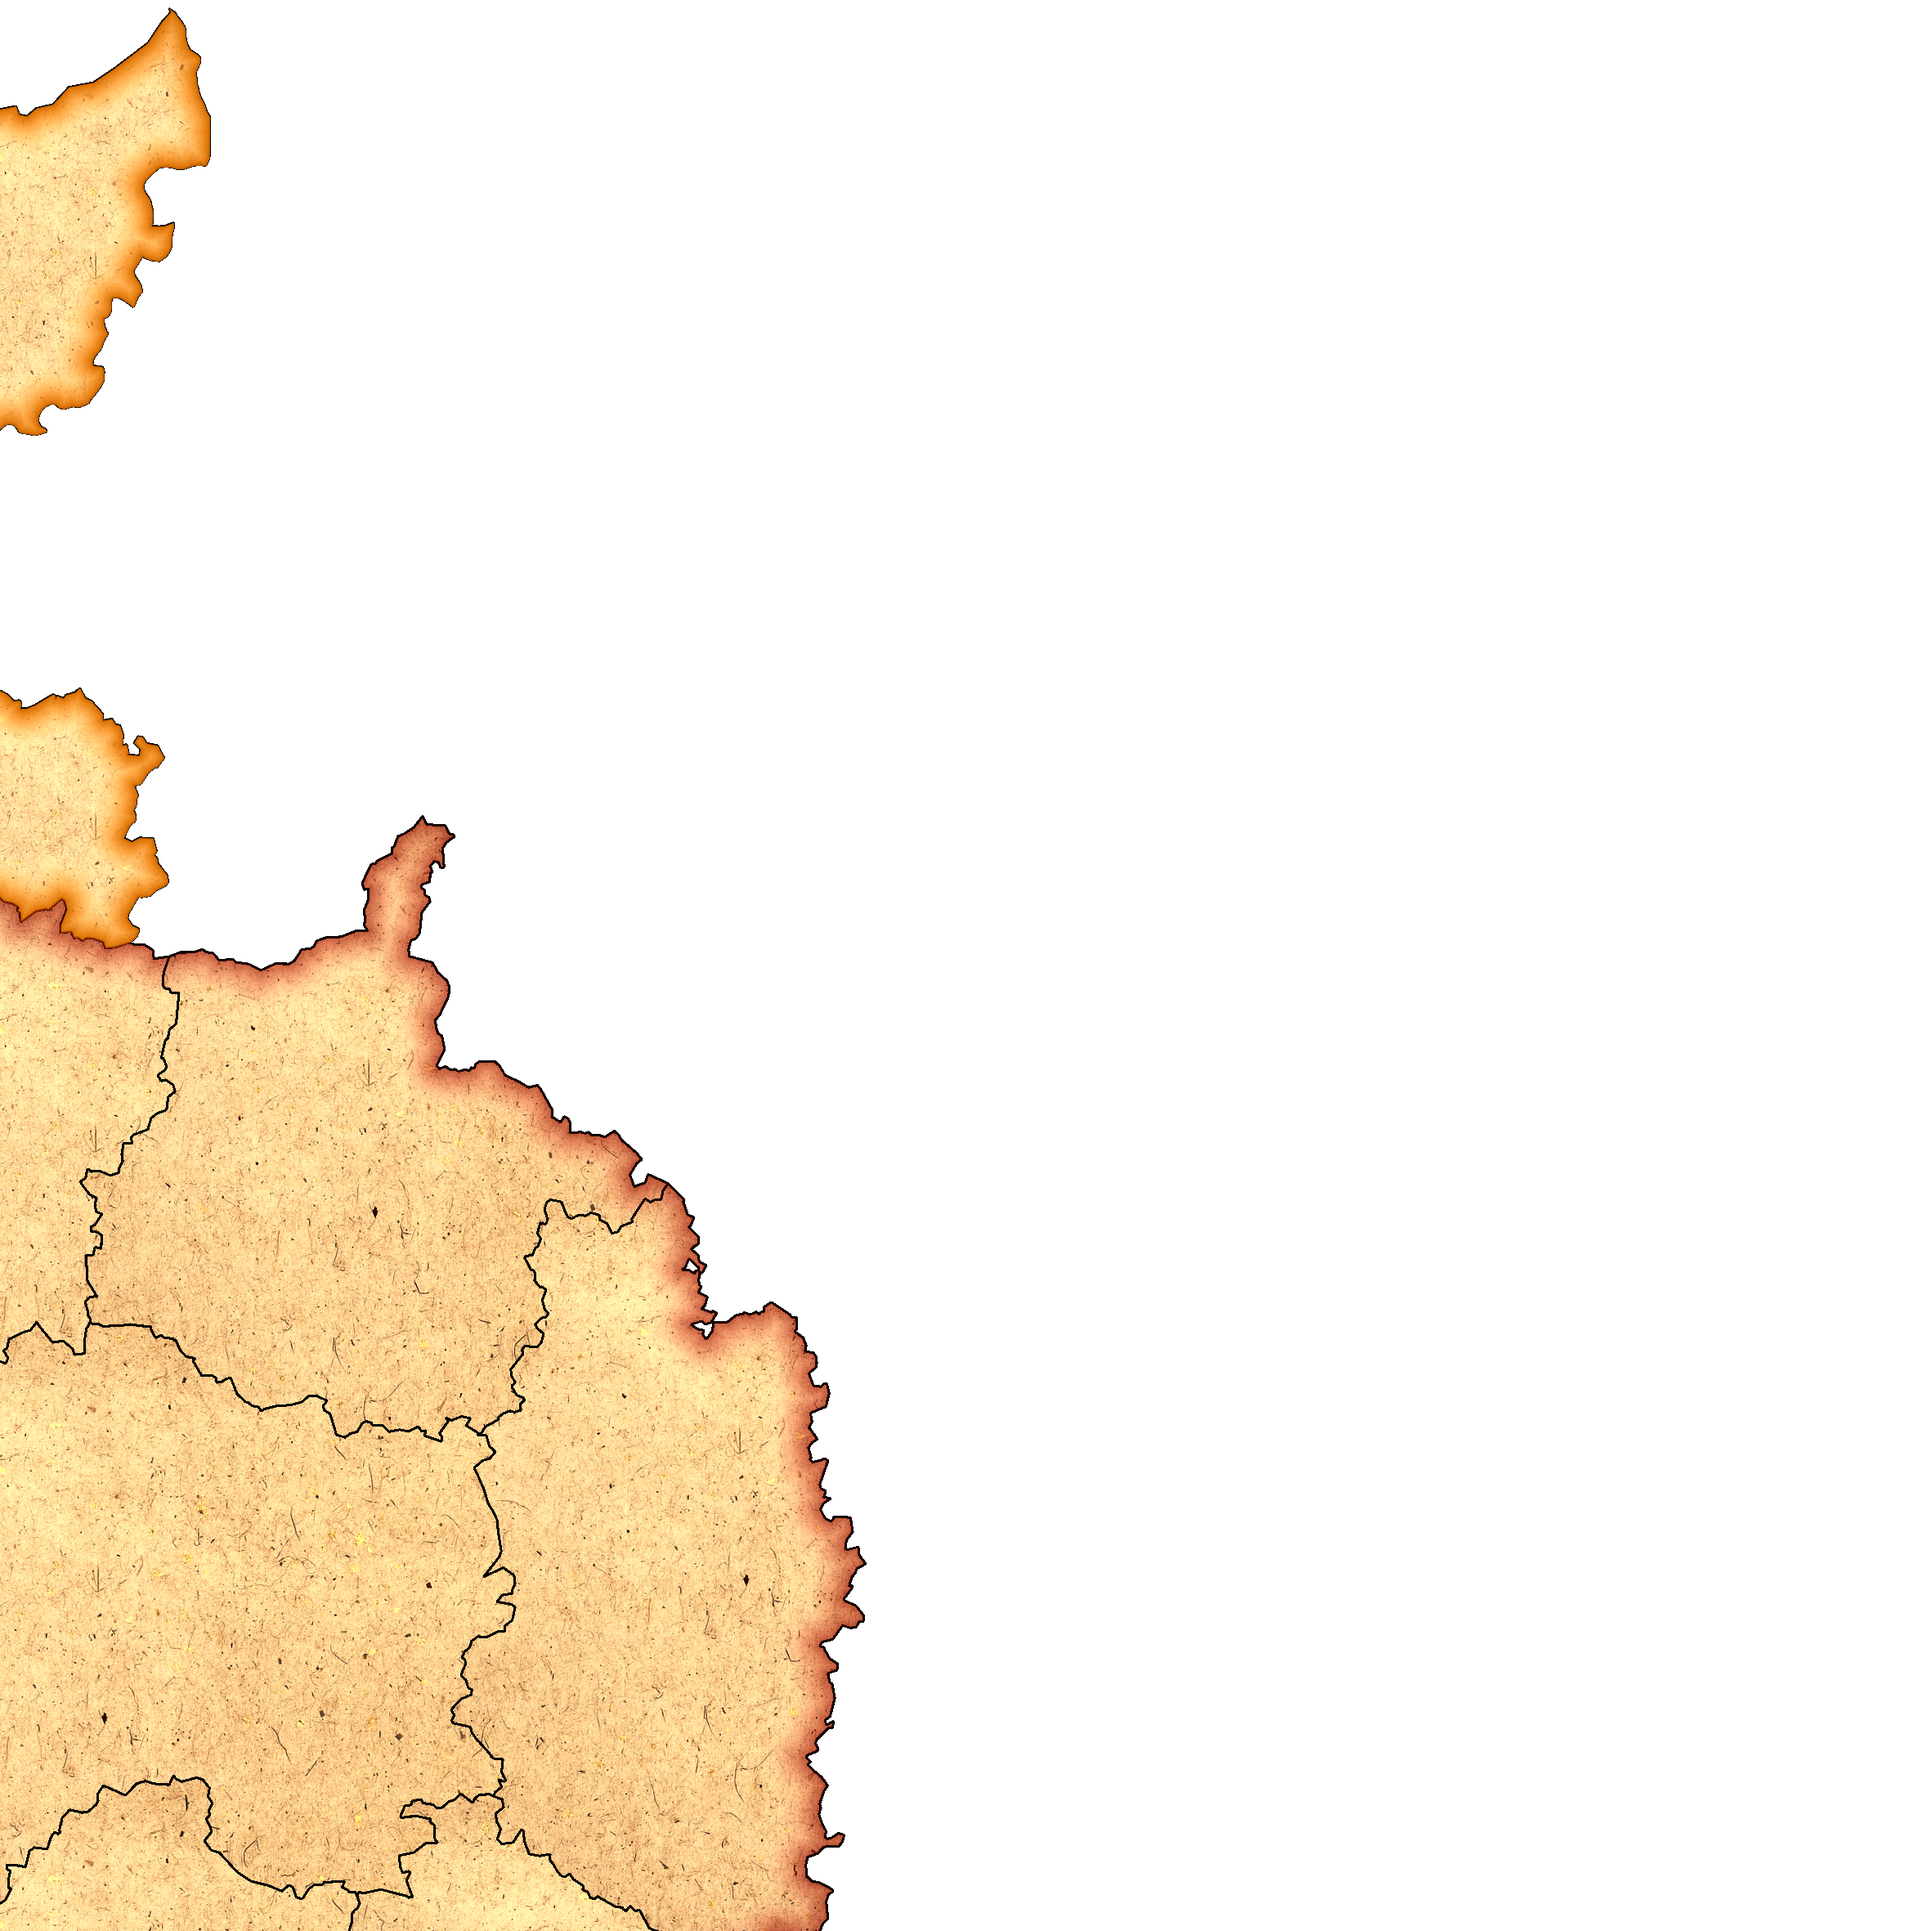
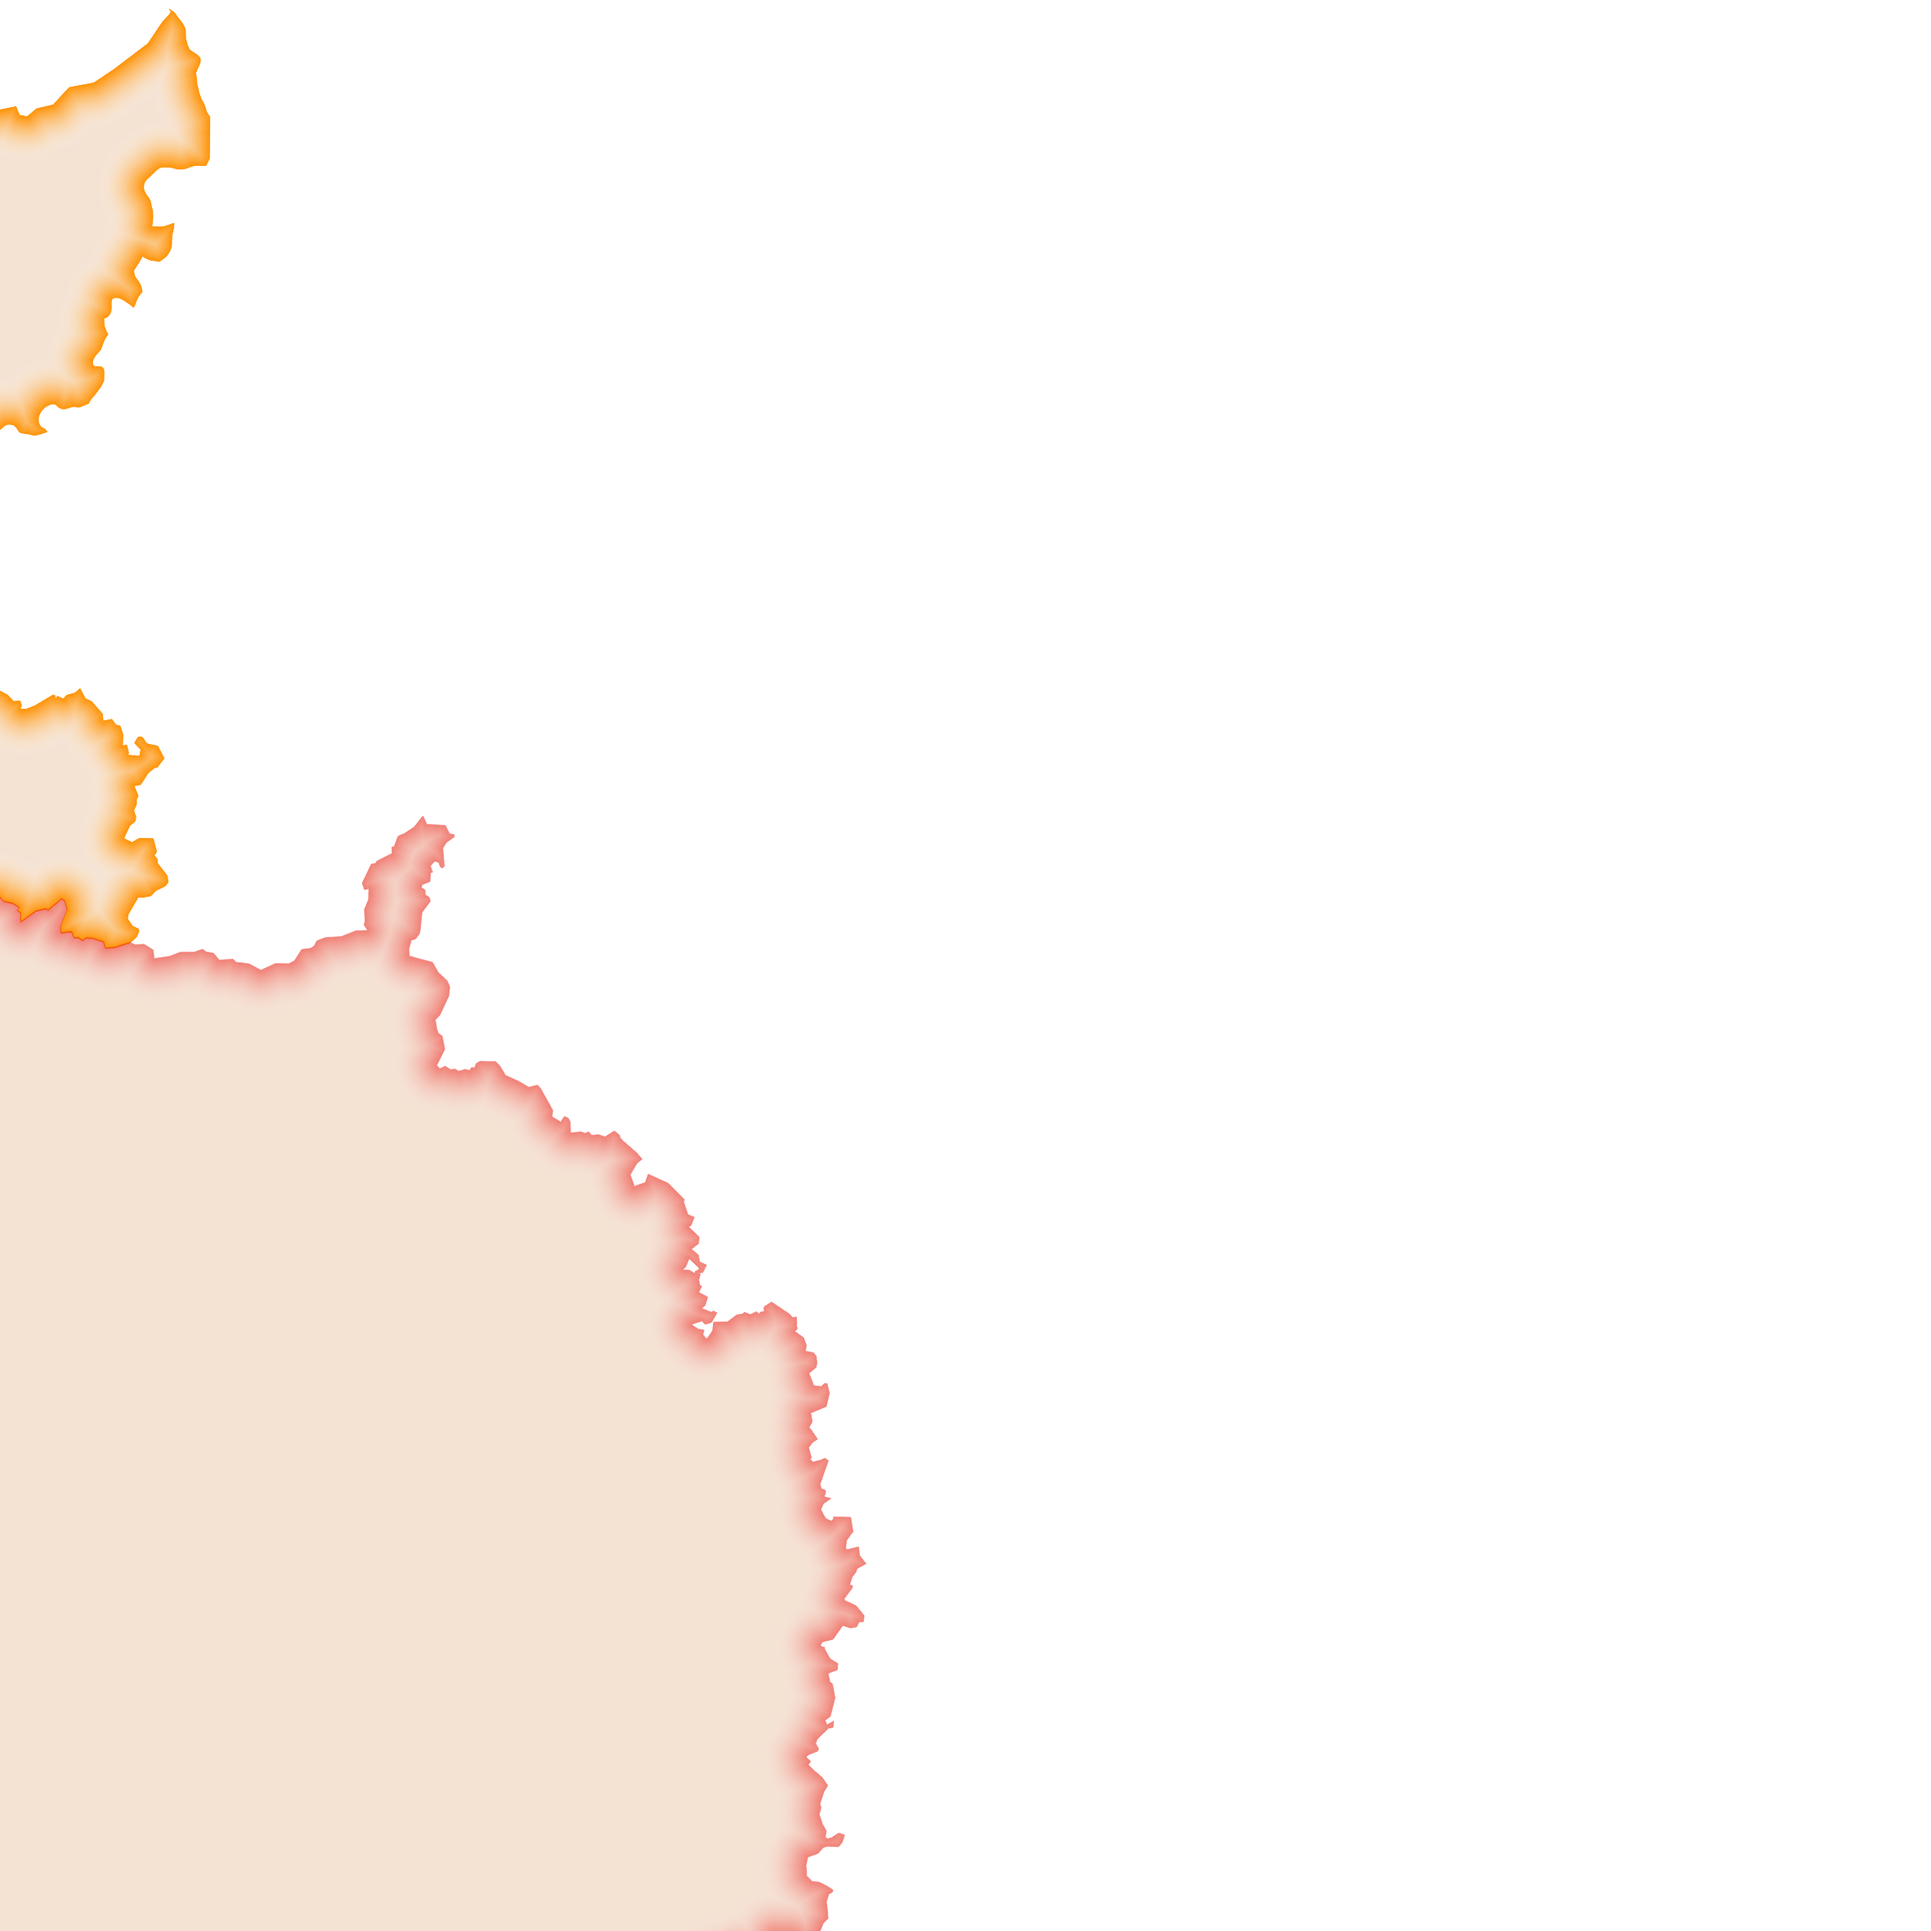
zoom for kingdom names and update of map

Changed region(s): [[0.0, 0.34, 0.4636, 1.0], [0.0, 0.0, 0.1236, 0.2472]]

diff --git a/Src/MedievalArt/Manager/ManagerZoom.cs b/Src/MedievalArt/Manager/ManagerZoom.cs
@@ -6,9 +6,9 @@ namespace MedievalArt.MedievalArt.Manager
 	public class ManagerZoom : Node
 	{
 		private Camera2DMap camera2DMap;
+		private readonly Vector2 zoomLabelNamesKingdom = new Vector2(3, 3);
 		private Ground ground;
 		private Control kingdomLabel;
-		private Vector2? zoom = new Vector2(1, 1);
 		public static ManagerZoom Instance { get; private set; }
 
 		public override void _Ready()
@@ -21,22 +21,36 @@ namespace MedievalArt.MedievalArt.Manager
 
 		public override void _Process(float delta)
 		{
-			zoom = camera2DMap?.Zoom;
-			if (zoom > new Vector2((float)1.5, (float)1.5))
-				ShowLabel(kingdomLabel);
+			MouseZoom(delta);
+		}
+
+
+		private void HiddenLabel(Control label, float delta)
+		{
+			var modulateTemp = label.Modulate;
+			if (camera2DMap?.minZoom >= camera2DMap?.Zoom || modulateTemp.a < 0)
+				modulateTemp.a = 0;
 			else
-				HiddenLabel(kingdomLabel);
+				modulateTemp.a -= delta * 5;
+			label.Modulate = modulateTemp;
 		}
 
-
-		private void HiddenLabel(Control label )
+		private void ShowLabel(Control label, float delta)
 		{
-			label.Visible = false;
+			var modulateTemp = label.Modulate;
+			if (camera2DMap?.Zoom >= zoomLabelNamesKingdom && camera2DMap?.Zoom < camera2DMap?.maxZoom)
+				modulateTemp.a += delta * 5;
+
+			if (camera2DMap?.maxZoom == camera2DMap?.Zoom || modulateTemp.a > 1) modulateTemp.a = 1;
+			label.Modulate = modulateTemp;
 		}
 
-		private void ShowLabel(Control label )
+		private void MouseZoom(float delta)
 		{
-			label.Visible = true;
+			if (Input.IsActionJustReleased("zoom_in"))
+				HiddenLabel(kingdomLabel, delta);
+			if (Input.IsActionJustReleased("zoom_out"))
+				ShowLabel(kingdomLabel, delta);
 		}
 	}
 }

diff --git a/Src/MedievalArt/Camera2DMap.cs b/Src/MedievalArt/Camera2DMap.cs
@@ -6,8 +6,8 @@ namespace MedievalArt.MedievalArt
 	{
 		[Export()] private float speedCamera;
 		[Export()] private Vector2 speedZoom;
-		[Export()] private Vector2 minZoom;
-		[Export()] private Vector2 maxZoom;
+		[Export()] public Vector2 minZoom;
+		[Export()] public Vector2 maxZoom;
 		[Export()] public bool CanMove { get; set; }
 		[Export()] public bool CanZoom { get; set; }
 
@@ -36,7 +36,6 @@ namespace MedievalArt.MedievalArt
 		private void ChangeZoom(float delta)
 		{
 			if (!CanZoom) return;
-
 			if (Input.IsActionJustReleased("zoom_in"))
 				if (Zoom > minZoom)
 					Zoom -= speedZoom;
